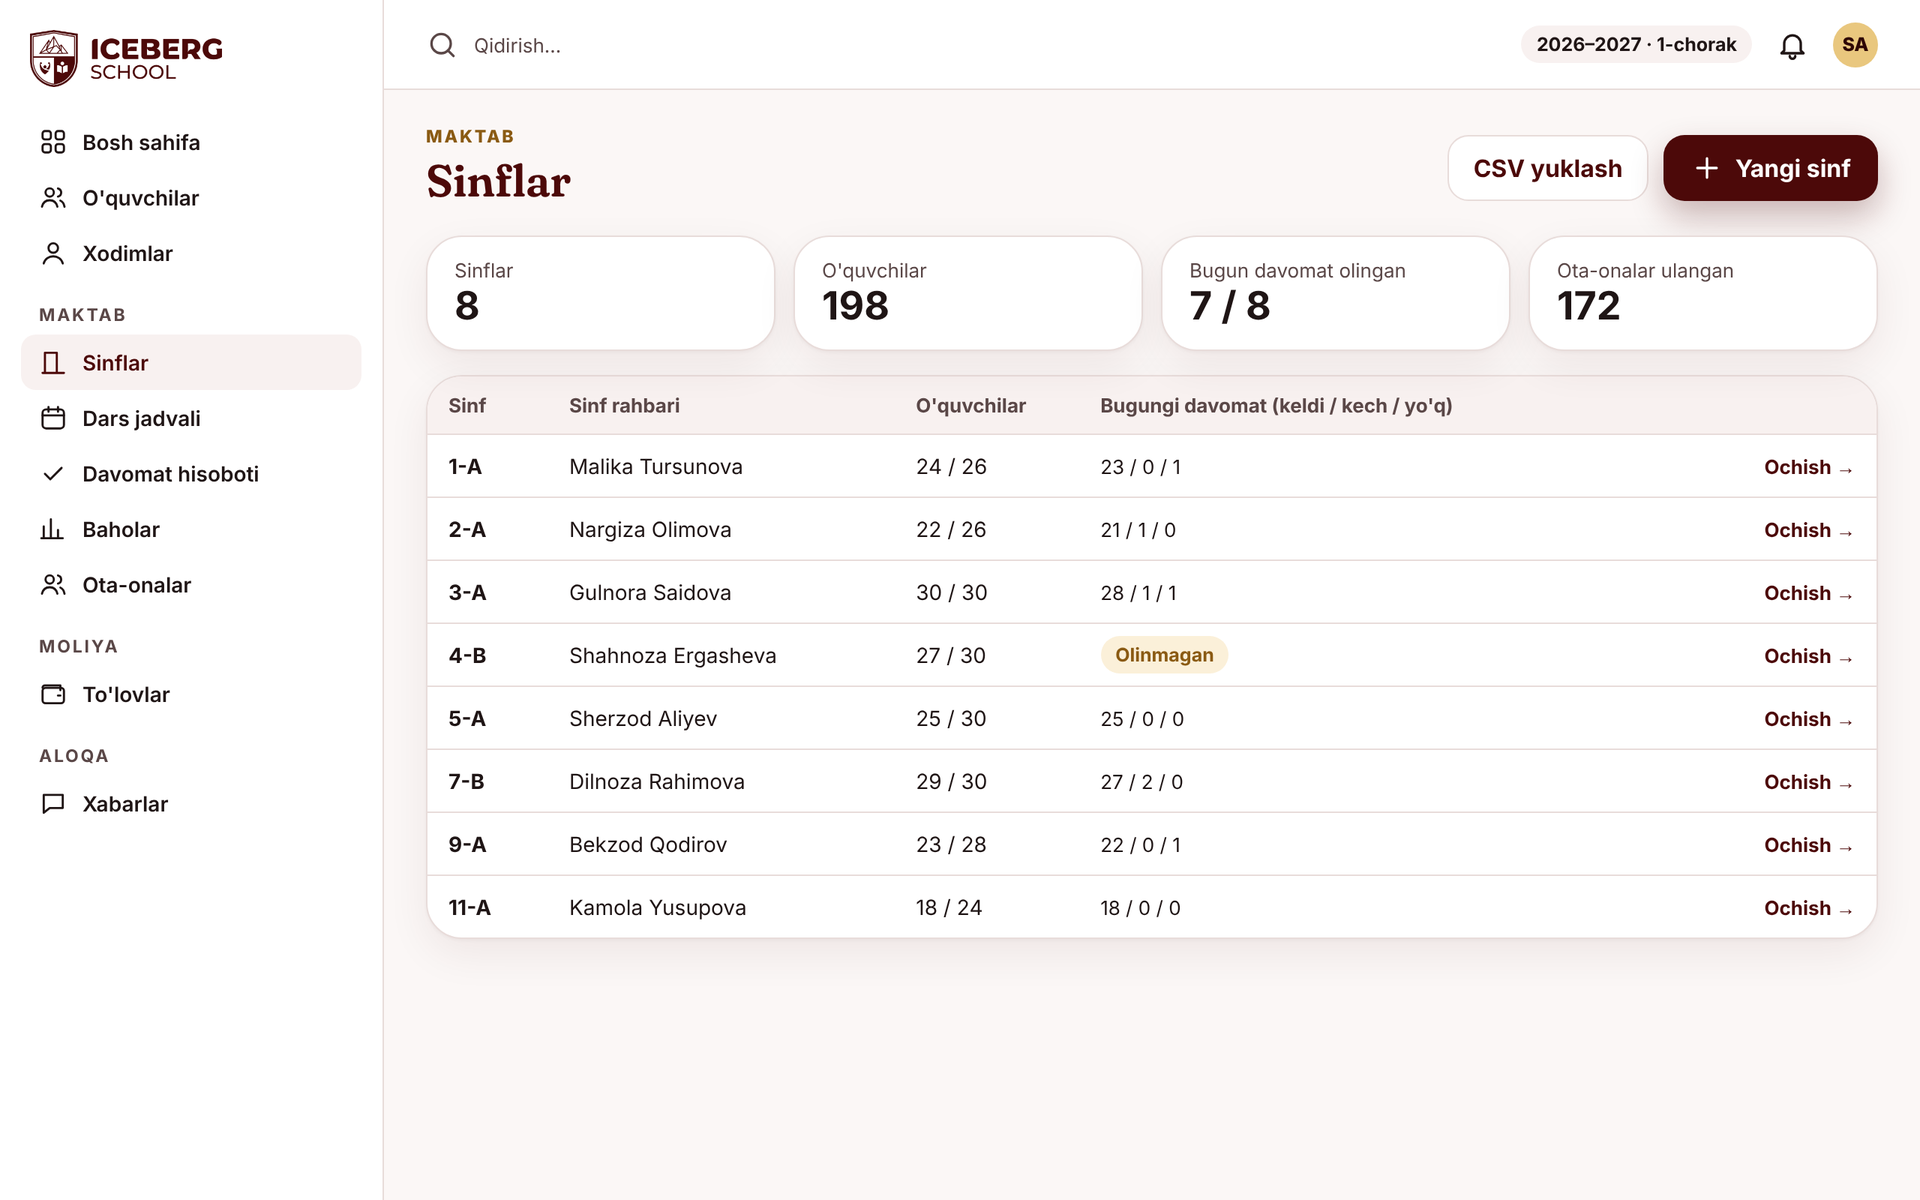
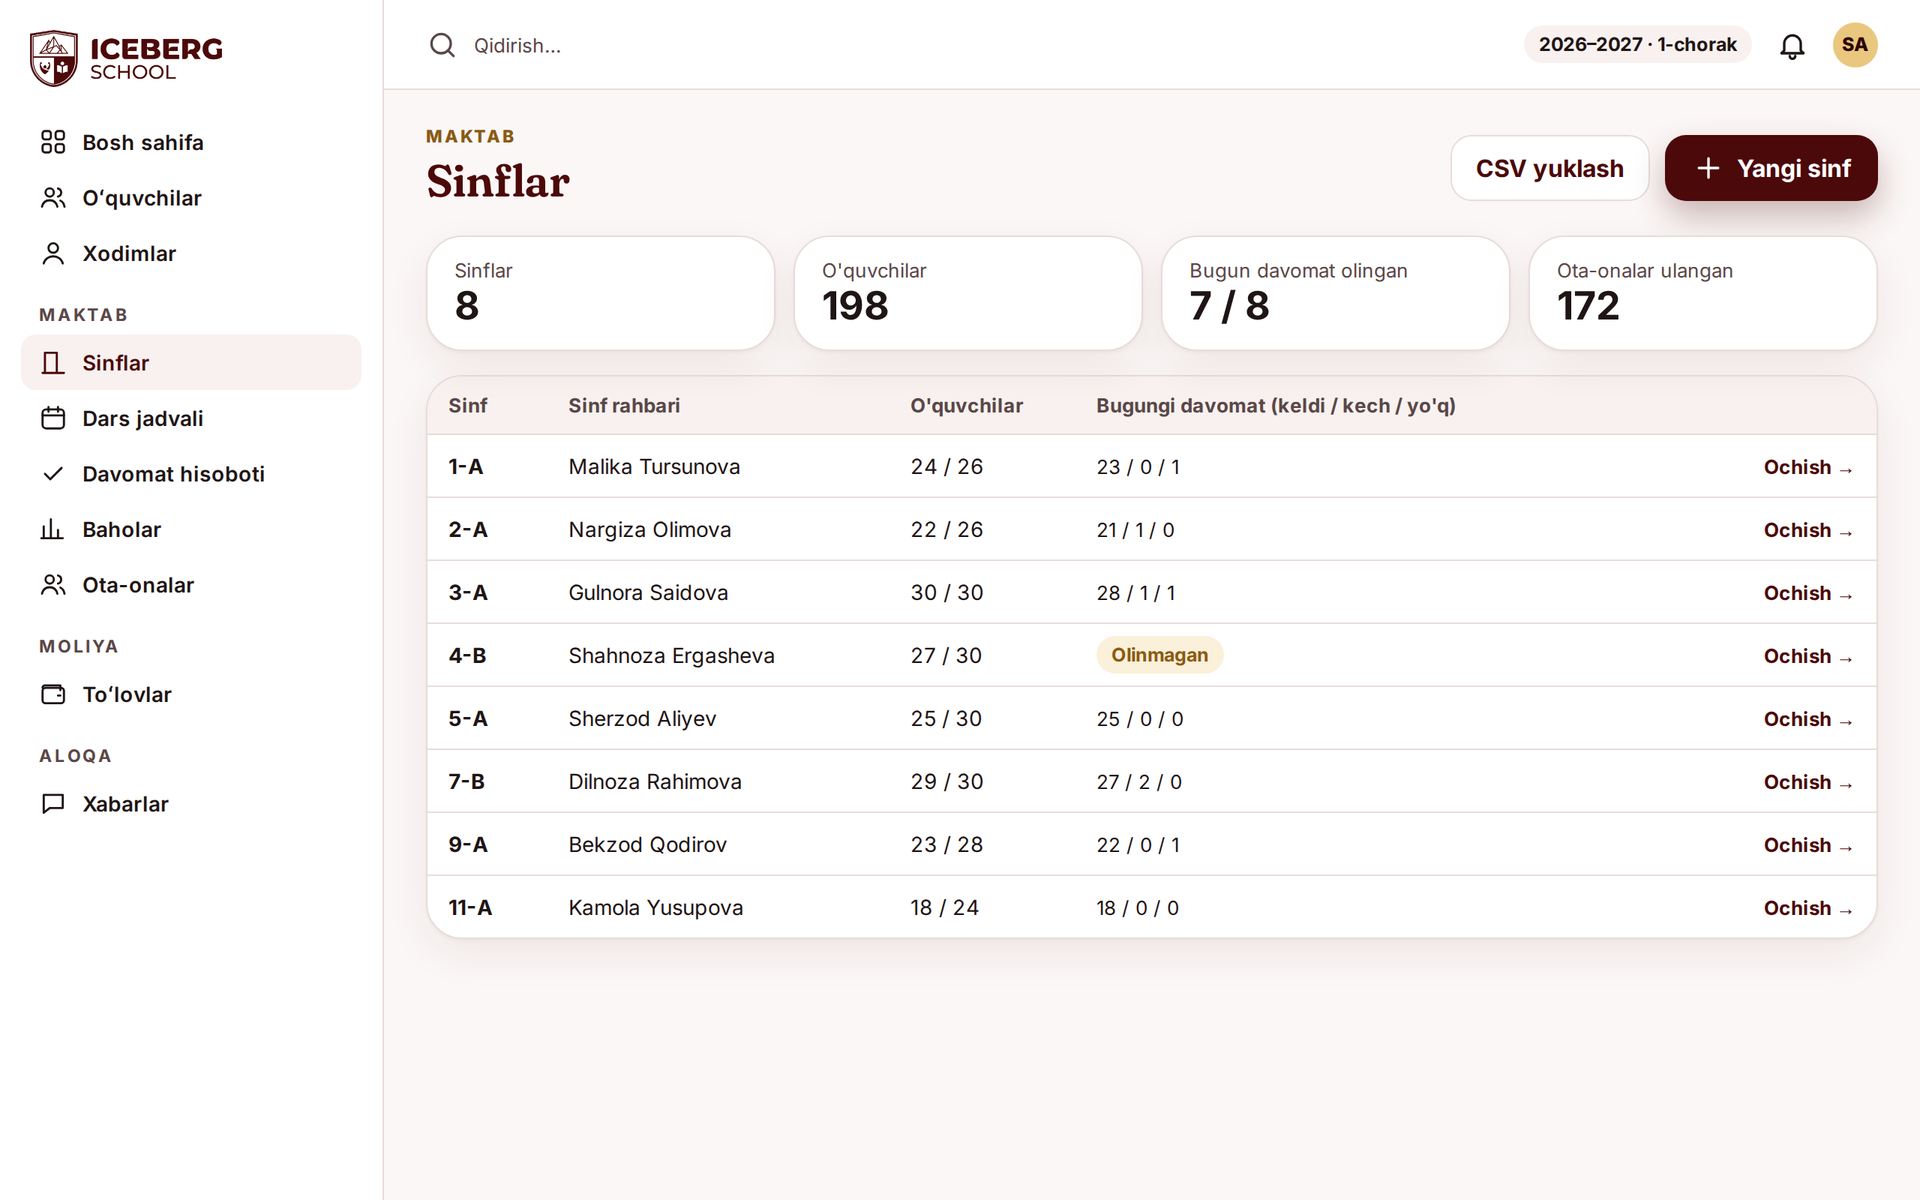
docs(plan): web parents mockups, screens 18–18b (PD.9 part 1)
Parents list with search and the "New parent" form (parent + first child),
and the parent page: edit, reset password, link/unlink children, relation and
main contact, link a parent of another branch by login ID + phone (D4).
No CSV import (Release 2, D16). Awaiting owner approval (PD.8).

build_mockups.py takes screen names to render only those; the web sidebar
labels use the ʻ letter, so 16–17 are re-rendered with no other change.

diff --git a/docs/plans/school-app-mockups/build_mockups.py b/docs/plans/school-app-mockups/build_mockups.py
@@ -5,9 +5,10 @@ with Playwright (Chromium). Sample names, times and data are fictional; amounts 
 "[summa]" because prices are not decided.
 
     pip install playwright pillow          # dev machine only, not a project dependency
-    python docs/plans/school-app-mockups/build_mockups.py
+    python docs/plans/school-app-mockups/build_mockups.py [NAME ...]
 
-Writes NN-name.png next to this file and overview.png (all phone screens on one sheet).
+Writes NN-name.png next to this file and overview.png (all phone screens on one sheet). Pass screen
+names (e.g. ``18-web-parents``) to render only those and skip the overview.
 """
 
 from __future__ import annotations
@@ -129,6 +130,8 @@ ICONS = {
     "refresh": '<path d="M20 11a8 8 0 1 0-2.3 5.7M20 4v7h-7"/>',
     "door": '<path d="M5 21V4h10v17M15 12h.01M3 21h18"/>',
     "upload": '<path d="M12 16V4m-5 5 5-5 5 5M4 20h16"/>',
+    "key": '<circle cx="8" cy="15" r="4"/><path d="m11 12 9-9m-4 4 3 3m-6 0 2 2"/>',
+    "link": '<path d="M10 14a4 4 0 0 0 5.7 0l3-3a4 4 0 0 0-5.7-5.7l-1 1"/><path d="M14 10a4 4 0 0 0-5.7 0l-3 3a4 4 0 0 0 5.7 5.7l1-1"/>',
 }
 
 
@@ -711,7 +714,7 @@ def s_states() -> str:
 
 WEB_SIDEBAR = [
     ("grid", "Bosh sahifa", False),
-    ("users", "O'quvchilar", False),
+    ("users", "Oʻquvchilar", False),
     ("user", "Xodimlar", False),
     (None, "Maktab", None),
     ("door", "Sinflar", True),
@@ -720,7 +723,7 @@ WEB_SIDEBAR = [
     ("chart", "Baholar", False),
     ("users", "Ota-onalar", False),
     (None, "Moliya", None),
-    ("wallet", "To'lovlar", False),
+    ("wallet", "Toʻlovlar", False),
     (None, "Aloqa", None),
     ("chat", "Xabarlar", False),
 ]
@@ -851,6 +854,157 @@ def w_timetable() -> str:
     return web_shell("Dars jadvali", content, "Dars jadvali")
 
 
+def _star() -> str:
+    icon = i("star", 'style="width:13px;height:13px;fill:currentColor"')
+    return f'<span style="color:var(--gold-ink);display:inline-flex">{icon}</span>'
+
+
+def _kid(label: str, primary: bool = False, other: bool = False) -> str:
+    style = (
+        "border:1px dashed var(--border);color:var(--muted)" if other else "background:var(--tint)"
+    )
+    return f'<span class="pill" style="{style};font-weight:600">{_star() if primary else ""}{label}</span>'
+
+
+def _field(label: str, value: str, hint: str = "", muted: bool = False) -> str:
+    colour = "var(--muted)" if muted else "var(--text)"
+    note = f'<div class="tiny muted" style="margin-top:4px">{hint}</div>' if hint else ""
+    return (
+        f'<div><div class="tiny b muted" style="margin-bottom:5px">{label}</div>'
+        f'<div style="height:40px;border:1px solid var(--border);border-radius:10px;padding:0 12px;display:flex;'
+        f'align-items:center;font-size:14px;color:{colour};background:var(--surface)">{value}</div>{note}</div>'
+    )
+
+
+def _toggle(on: bool) -> str:
+    bg = "var(--m)" if on else "var(--border)"
+    side = "right" if on else "left"
+    return (
+        f'<span style="width:34px;height:20px;border-radius:999px;background:{bg};position:relative;display:inline-block">'
+        f'<span style="position:absolute;top:3px;{side}:3px;width:14px;height:14px;border-radius:999px;background:#fff"></span></span>'
+    )
+
+
+def w_parents() -> str:
+    # (name, login ID, phone, [(child label, primary contact, child in another branch)])
+    data = [
+        (
+            "Nodira Karimova",
+            "PR503",
+            "+998 90 111 22 33",
+            [("Aziz · 3-A", True, False), ("Madina · 7-B", False, False)],
+        ),
+        (
+            "Rustam Karimov",
+            "PR504",
+            "+998 93 444 55 66",
+            [("Aziz · 3-A", False, False), ("Madina · 7-B", True, False)],
+        ),
+        ("Feruza Nazarova", "PR507", "+998 91 222 77 88", [("Sardor · 1-A", True, False)]),
+        (
+            "Jamshid Usmonov",
+            "PR509",
+            "+998 97 333 10 20",
+            [("Laylo · 11-A", True, False), ("+1 boshqa filialda", False, True)],
+        ),
+        ("Mohira Saidova", "PR511", "+998 99 555 40 41", [("Otabek · 5-A", True, False)]),
+        ("Ulugʻbek Tojiyev", "PR512", "+998 94 666 70 71", [("Diyora · 9-A", False, False)]),
+    ]
+    rows = "".join(
+        f'<tr style="border-top:1px solid var(--border)"><td style="padding:11px 14px"><div class="b">{name}</div>'
+        f'<div class="tiny muted">{login}</div></td><td class="small">{phone}</td>'
+        f'<td><div class="row" style="gap:6px;flex-wrap:wrap;padding:6px 0">{"".join(_kid(*k) for k in kids)}</div></td>'
+        f'<td style="text-align:right;padding-right:14px;color:var(--m)" class="small b">Ochish →</td></tr>'
+        for name, login, phone, kids in data
+    )
+    link_icon = i("link", 'style="width:18px;height:18px"')
+    search_icon = i("search", 'style="width:18px;height:18px"')
+    close_icon = i("x", 'style="width:18px;height:18px"')
+    tick = i("check", 'style="width:13px;height:13px;stroke-width:3"')
+    content = f"""
+<div class="row between"><div><p class="kicker">Maktab</p><h1 class="serif" style="font-size:30px;color:var(--m);margin-top:4px">Ota-onalar</h1></div>
+  <div class="row" style="gap:10px"><div class="btn btn-ghost" style="height:44px;padding:0 16px">{link_icon}Login ID orqali ulash</div><div class="btn btn-m" style="height:44px;padding:0 18px">{i("plus")}Yangi ota-ona</div></div></div>
+<div style="display:grid;grid-template-columns:1fr 330px;gap:16px;margin-top:16px;align-items:start">
+  <div>
+    <div class="row" style="gap:10px">
+      <div class="row" style="flex:1;gap:8px;height:42px;padding:0 14px;border:1px solid var(--border);border-radius:12px;background:var(--surface);color:var(--muted)">{search_icon}<span class="small">Ism, login ID yoki telefon…</span></div>
+      <span class="pill" style="background:var(--surface);border:1px solid var(--border);padding:11px 14px">Sinf: hammasi ▾</span>
+    </div>
+    <div class="card" style="margin-top:12px;padding:0;overflow:hidden">
+      <table style="width:100%;border-collapse:collapse;font-size:14px">
+        <thead><tr style="background:var(--tint);text-align:left" class="small muted"><th style="padding:11px 14px">Ota-ona</th><th>Telefon</th><th>Farzandlari</th><th></th></tr></thead>
+        <tbody>{rows}</tbody>
+      </table>
+    </div>
+    <p class="small muted row" style="gap:6px;margin-top:10px">{_star()} farzand boʻyicha asosiy aloqa · punktir — boshqa filialdagi farzand (nomi koʻrsatilmaydi)</p>
+  </div>
+  <div class="card" style="padding:18px;display:grid;gap:12px">
+    <div class="row between"><div class="b" style="font-size:17px;color:var(--m)">Yangi ota-ona</div><span class="muted">{close_icon}</span></div>
+    <div class="grid2" style="gap:10px">{_field("Ism", "Zarina")}{_field("Familiya", "Hamidova")}</div>
+    {_field("Telefon raqami", "+998 90 777 88 99", "Bitta raqam — bitta ota-ona")}
+    {_field("Parol", "••••••••", "Login ID avtomatik beriladi: PR513")}
+    <div class="tiny b" style="letter-spacing:.1em;text-transform:uppercase;color:var(--gold-ink);margin-top:4px">Birinchi farzand</div>
+    {_field("Farzand", "Hamidov Sanjar · 4-B ▾")}
+    {_field("Qarindoshlik", "Onasi ▾")}
+    <div class="row small" style="gap:8px"><span style="width:18px;height:18px;border-radius:5px;background:var(--m);color:#fff;display:grid;place-items:center">{tick}</span>Farzand boʻyicha asosiy aloqa</div>
+    <div class="btn btn-m" style="height:44px">Saqlash</div>
+  </div>
+</div>"""
+    return web_shell("Ota-onalar", content, "Ota-onalar")
+
+
+def w_parent_page() -> str:
+    links = [("Aziz Karimov", "3-A", "Onasi", True), ("Madina Karimova", "7-B", "Onasi", False)]
+    rows = "".join(
+        f'<tr style="border-top:1px solid var(--border)"><td style="padding:12px 14px" class="b">{name}</td><td>{cls}</td>'
+        f'<td><span class="pill" style="background:var(--surface);border:1px solid var(--border)">{rel} ▾</span></td>'
+        f"<td>{_toggle(primary)}</td>"
+        f'<td style="text-align:right;padding-right:14px;color:var(--abs)" class="small b">Uzish</td></tr>'
+        for name, cls, rel, primary in links
+    )
+    key_icon = i("key", 'style="width:18px;height:18px"')
+    link_icon = i("link", 'style="width:18px;height:18px"')
+    content = f"""
+<div class="row between"><div><p class="kicker">Maktab · Ota-onalar</p><h1 class="serif" style="font-size:30px;color:var(--m);margin-top:4px">Nodira Karimova</h1></div>
+  <div class="row" style="gap:10px"><div class="btn btn-ghost" style="height:44px;padding:0 16px">{key_icon}Parolni tiklash</div><div class="btn btn-ghost" style="height:44px;padding:0 16px;color:var(--abs)">Oʻchirish</div></div></div>
+<div style="display:grid;grid-template-columns:290px 1fr;gap:16px;margin-top:18px;align-items:start">
+  <div class="card" style="padding:18px;display:grid;gap:12px">
+    <div class="row" style="gap:12px"><span class="av lg">NK</span><div><div class="b">Nodira Karimova</div><div class="small muted">Login ID: PR503</div></div></div>
+    {_field("Ism", "Nodira")}
+    {_field("Familiya", "Karimova")}
+    {_field("Telefon raqami", "+998 90 111 22 33")}
+    <div class="btn btn-m" style="height:44px">Saqlash</div>
+    <div class="tiny muted">“Parolni tiklash” yangi vaqtinchalik parol beradi; uni ota-onaga topshiring.</div>
+  </div>
+  <div style="display:grid;gap:16px">
+    <div class="card" style="padding:0;overflow:hidden">
+      <div class="b" style="font-size:17px;color:var(--m);padding:14px 16px">Farzandlari</div>
+      <table style="width:100%;border-collapse:collapse;font-size:14px">
+        <thead><tr style="background:var(--tint);text-align:left" class="small muted"><th style="padding:10px 14px">Farzand</th><th>Sinf</th><th>Qarindoshlik</th><th>Asosiy aloqa</th><th></th></tr></thead>
+        <tbody>{rows}</tbody>
+      </table>
+      <div class="row" style="gap:10px;padding:12px 16px;border-top:1px solid var(--border);background:var(--bg);align-items:end">
+        <div style="flex:1">{_field("Farzand ulash", "Oʻquvchini tanlang ▾", muted=True)}</div>
+        <div style="width:150px">{_field("Qarindoshlik", "Vasiy ▾")}</div>
+        <div class="btn btn-m" style="height:40px;padding:0 18px">Ulash</div>
+      </div>
+    </div>
+    <div class="card" style="padding:16px 18px;border-color:var(--gold-soft)">
+      <div class="row" style="gap:12px"><span class="tile" style="width:38px;height:38px;border-radius:11px">{link_icon}</span>
+        <div><div class="b">Ota-ona boshqa filialda roʻyxatdan oʻtganmi?</div><div class="small muted">Yangi akkaunt ochmang: login ID va telefon raqami mos kelsa, farzand shu ota-onaga ulanadi.</div></div></div>
+      <div class="row" style="gap:10px;margin-top:12px;align-items:end">
+        <div style="width:120px">{_field("Login ID", "PR488")}</div>
+        <div style="flex:1">{_field("Telefon raqami", "+998 95 123 00 11")}</div>
+        <div style="flex:1">{_field("Farzand", "Karimov Aziz · 3-A ▾")}</div>
+        <div class="btn btn-ghost" style="height:40px;padding:0 18px">Ulash</div>
+      </div>
+      <div class="tiny muted" style="margin-top:8px">Mos kelmasa — faqat “Ota-ona topilmadi”; boshqa filial maʼlumotlari koʻrsatilmaydi.</div>
+    </div>
+  </div>
+</div>"""
+    return web_shell("Ota-onalar", content, "Ota-onalar")
+
+
 SCREENS = [
     ("01-choice", "Tanlov · Choice", s_choice),
     ("02-login-school", "Kirish · School", s_login_school),
@@ -871,10 +1025,12 @@ SCREENS = [
 WEB_SCREENS = [
     ("16-web-classes", "Web · Sinflar", w_classes),
     ("17-web-timetable", "Web · Dars jadvali", w_timetable),
+    ("18-web-parents", "Web · Ota-onalar", w_parents),
+    ("18b-web-parent-page", "Web · Ota-ona sahifasi", w_parent_page),
 ]
 
 
-def main() -> None:
+def main(only: list[str]) -> None:
     from PIL import Image, ImageDraw, ImageFont
     from playwright.sync_api import sync_playwright
 
@@ -890,6 +1046,8 @@ def main() -> None:
             ctx = browser.new_context(viewport={"width": w, "height": h}, device_scale_factor=2)
             pg = ctx.new_page()
             for name, _label, fn in items:
+                if only and name not in only:
+                    continue
                 html_path = HERE / f".{name}.html"
                 html_path.write_text(fn(), encoding="utf-8")
                 pg.goto(html_path.as_uri())
@@ -903,6 +1061,8 @@ def main() -> None:
                 print("wrote", out.name, im.size)
             ctx.close()
         browser.close()
+    if only:
+        return
 
     # Overview sheet: phone screens in rows of 5 with labels.
     tiles = [(label, Image.open(HERE / f"{name}.png")) for name, label, _ in SCREENS]
@@ -932,4 +1092,4 @@ def main() -> None:
 
 
 if __name__ == "__main__":
-    sys.exit(main())
+    sys.exit(main(sys.argv[1:]))

diff --git a/docs/plans/ICEBERG_SCHOOL_APP_PLAN.md b/docs/plans/ICEBERG_SCHOOL_APP_PLAN.md
@@ -359,6 +359,8 @@ money is shown as `[summa]` because prices are not decided.
 | 15 | Empty, error, loading and offline states | [15-states.png](school-app-mockups/15-states.png) | P4.10, P4.11 |
 | 16 | Web — classes list (admin) | [16-web-classes.png](school-app-mockups/16-web-classes.png) | P3.1 |
 | 17 | Web — timetable editor with clash | [17-web-timetable.png](school-app-mockups/17-web-timetable.png) | P3.2 |
+| 18 | Web — parents list, search, "New parent" form (parent + first child) — **awaiting approval (PD.8)** | [18-web-parents.png](school-app-mockups/18-web-parents.png) | P3.3 |
+| 18b | Web — parent page: edit, reset password, link/unlink children, relation and main contact, link a parent of another branch by login ID + phone (D4) — **awaiting approval (PD.8)** | [18b-web-parent-page.png](school-app-mockups/18b-web-parent-page.png) | P3.3 |
 
 Navigation per role (bottom tabs, at most five):
 
@@ -656,8 +658,10 @@ parent (other child) 403/404**, anonymous 401. Write them as one table-driven te
       entry still to draw**. (Release 2.)
 - [x] **PD.6** Mockups: web "Maktab" classes list and timetable editor with clash display — done
       2026-10-23, PR #27; screens 16–17.
-- [ ] **PD.9** Mockups still to draw: web parents list and register report (the teacher register page on
-      the web is no longer needed, D15; the CSV import preview waits for Release 2).
+- [~] **PD.9** Mockups still to draw: web parents list and register report (the teacher register page on
+      the web is no longer needed, D15; the CSV import preview waits for Release 2). **Part 1 (parents)
+      drawn 2026-10-28**, branch docs/school-pd9-parents-mockup: screens 18–18b, content from P1.7 (no
+      CSV import, D16); awaiting owner approval (PD.8). Part 2 (register report) still to draw.
 - [ ] **PD.7** App icon (one icon for both brands), splash, store screenshot templates (uz/ru/en); a clean
       transparent Study Center wordmark replacing the defective `iceberg-wordmark.png`.
 - [~] **PD.8** **Owner** approves the mockups in section 6.0 (and later PD.5, PD.7, PD.9; record the date per screen here). Code tasks for a screen
@@ -667,7 +671,7 @@ parent (other child) 403/404**, anonymous 401. Write them as one table-driven te
       saqlanadi va keyin yuboriladi" (offline register dropped, D16); **16 (web classes)** no "CSV
       yuklash" button until Release 2 (CSV import moved, D16). Also: the grades tabs (14) list all four
       quarters plus Yillik; Uzbek UI text uses the modifier letter ʻ (Oʻquvchilar), as in the code.
-      Still to approve when drawn: PD.5 (teacher grade entry), PD.7, PD.9.
+      Still to approve when drawn: PD.5 (teacher grade entry), PD.7, PD.9 (screens 18–18b drawn, waiting).
 
 ### P3 — Web screens (admins and teachers)
 
@@ -842,6 +846,9 @@ Not scheduled: start only when the owner says so, after Release 2. The school ke
 
 Newest first. One line per session: date — tasks — PR — note for the next agent.
 
+- 2026-10-28 — PD.9 part 1 drawn: web parents screens 18 (list + New parent) and 18b (parent page,
+  link by login ID + phone). `build_mockups.py` takes screen names to render only those; web sidebar
+  labels now use ʻ (16–17 re-rendered, no other change). Next: owner approves 18–18b (PD.8), then P3.3.
 - 2026-10-28 — P3.1 done (PR #41, stacked on #40): admin **School → Classes / Academic year**
   pages in uz/ru/en. Merge order #36 → #39 → #37 → #38 → #40 → this. Next free: P3.3 (parents
   screen); P2.2 and the demo timetable week belong to the other agent.
